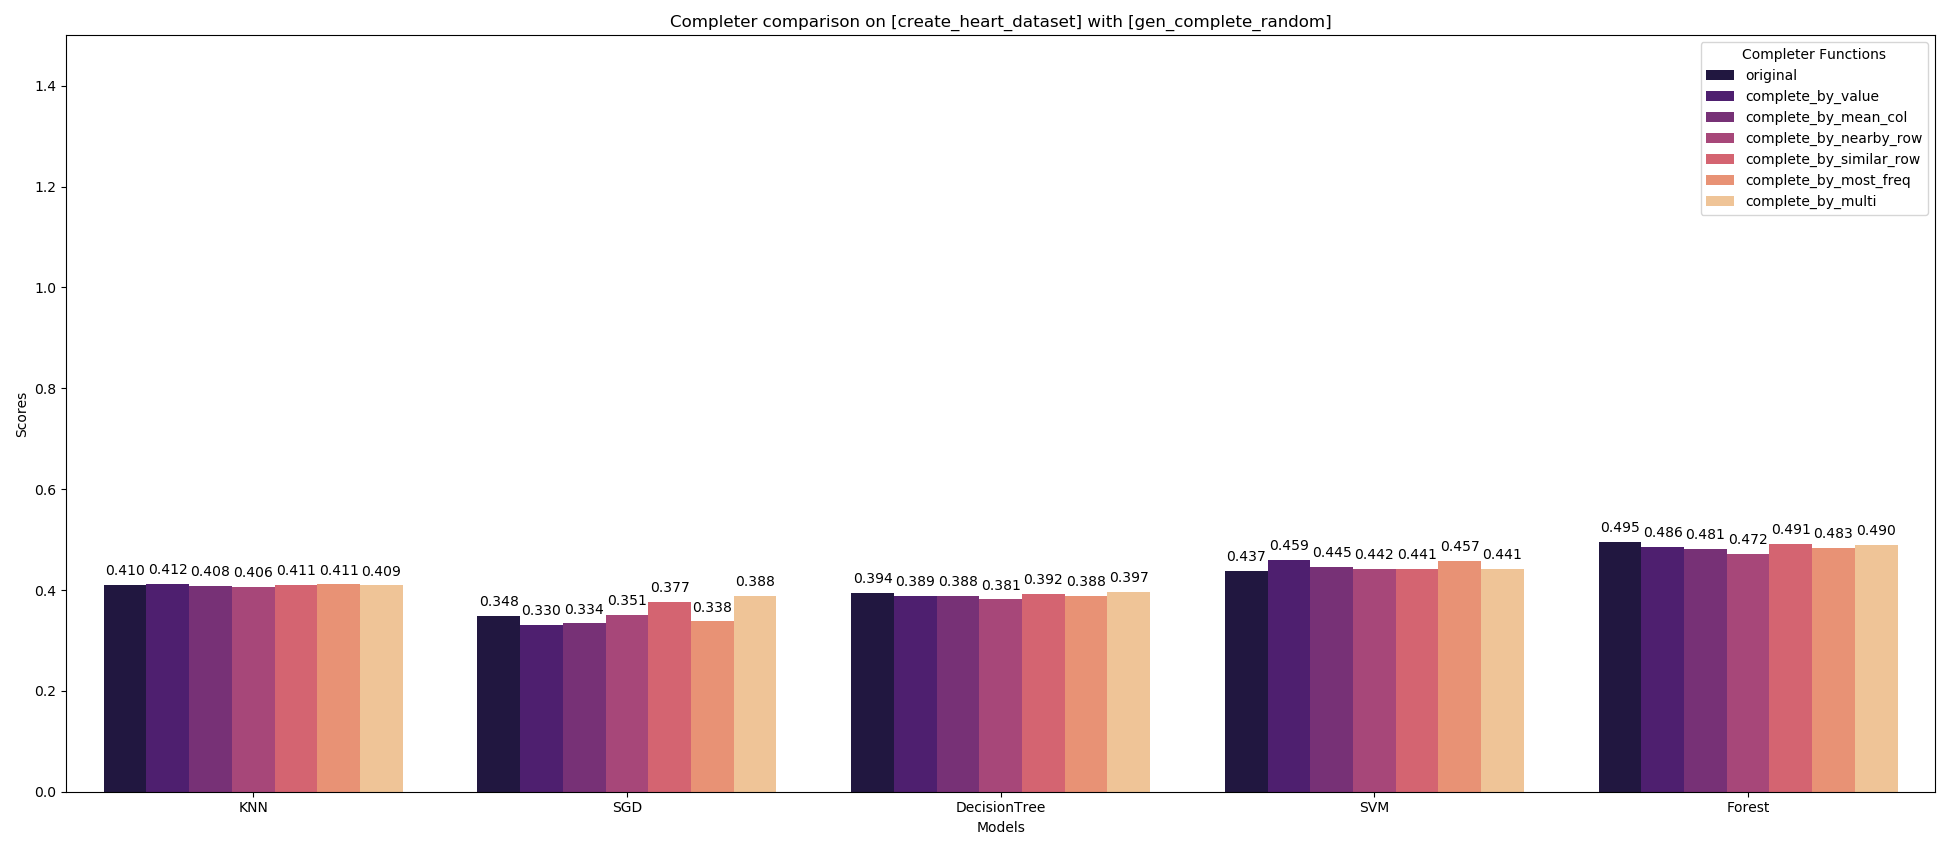
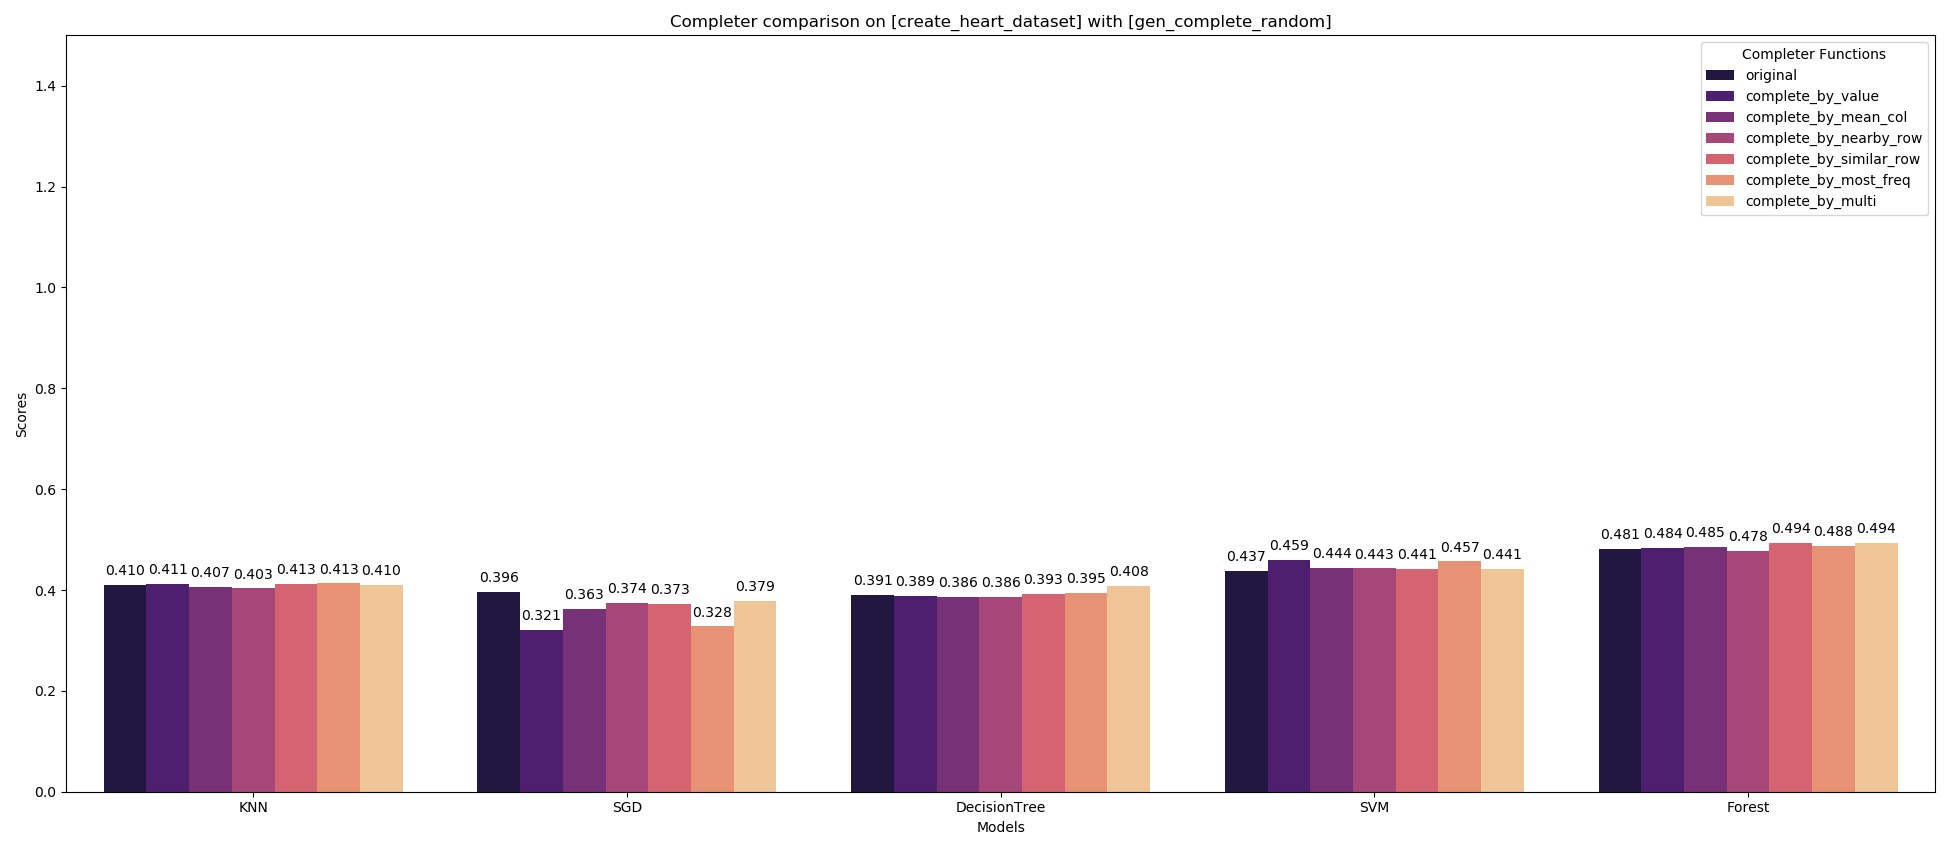
update

diff --git a/utils/test.py b/utils/test.py
@@ -12,17 +12,20 @@ class TestMachine:
     def __init__(self, data_func, random_func,
                  predictor_cv=5, random_gen=1,
                  complete_func=[], model_func=[],
-                 record_time=False):
+                 record_time=False, n_jobs=1,
+                 grid_search=False):
         self.data_func_name = data_func.__name__
         self.random_func_name = random_func.__name__
         self.record_time = record_time
         self.original_data = data_func(print_time=self.record_time)
+        self._log_message("Dataset loaded")
         assert random_gen >= 1 # make sure at least one
         if random_gen > 1:
             print("You're using random generation > 1: {}".format(random_gen))
             self.missing_data = [random_func(self.original_data, print_time=self.record_time) for _ in range(random_gen)]
         else:
             self.missing_data = random_func(self.original_data, print_time=self.record_time)
+        self._log_message("Missing values generated")
         self.completers = [
                            complete_by_value,
                            complete_by_mean_col,
@@ -39,26 +42,33 @@ class TestMachine:
                         Forest
                         ] if model_func == [] else model_func
         self.predictor_cv = predictor_cv
+        self.n_jobs = n_jobs
+        self.grid_search = grid_search
     
     def run(self):
         scores = []
+        self._log_message("Run on original dataset")
         for model in self.models:
-            scores.append(["original", model.__name__, model(self.original_data, self.predictor_cv, self.record_time)])
+            scores.append(["original", model.__name__, model(self.original_data, self.predictor_cv, self.record_time, self.grid_search, self.n_jobs)])
+        self._log_message("Original dataset scores collected")
         for completer in self.completers:
+            self._log_message("Run on missing dataset")
             if type(self.missing_data) is list:
                 completed_data = [completer(x, print_time=self.record_time) for x in self.missing_data]
                 for model in self.models:
-                    model_score = [model(cc, self.predictor_cv, self.record_time) for cc in completed_data] if type(completed_data[0]) is not list \
-                            else [np.mean([model(m, self.predictor_cv, self.record_time) for m in cc]) for cc in completed_data]
+                    model_score = [model(cc, self.predictor_cv, self.record_time, self.grid_search, self.n_jobs) for cc in completed_data] if type(completed_data[0]) is not list \
+                            else [np.mean([model(m, self.predictor_cv, self.record_time, self.grid_search, self.n_jobs) for m in cc]) for cc in completed_data]
                     scores.append([completer.__name__, model.__name__, sum(model_score)/len(model_score)])
             else:
                 completed_data = completer(self.missing_data, print_time=self.record_time)
                 for model in self.models:
-                    model_score = model(completed_data, self.predictor_cv, self.record_time) if type(completed_data) is not list \
-                        else np.mean([model(cc, self.predictor_cv, self.record_time) for cc in completed_data])
+                    model_score = model(completed_data, self.predictor_cv, self.record_time, self.grid_search, self.n_jobs) if type(completed_data) is not list \
+                        else np.mean([model(cc, self.predictor_cv, self.record_time, self.grid_search, self.n_jobs) for cc in completed_data])
                     scores.append([completer.__name__, model.__name__, model_score])
+            self._log_message("Scores collected")
         print("All tests complete")
         self.scores = pd.DataFrame(data=scores, columns=["Completer Functions", "Models", "Scores"], index=None)
+        self._log_message("Score dataframe generated")
         print(self.scores.to_string())
 
     def plot_compare_models(self, size=None, save_file_name=None):
@@ -95,6 +105,9 @@ class TestMachine:
         Y = 5 + (max(len(self.completers), len(self.models)) + 1) / 2
         X = (len(self.completers) * len(self.models) + 1.8*(max(len(self.completers), len(self.models)) - 1)) / 2
         return (X, Y)
+
+    def _log_message(self, message):
+        print("TestMachine: {}".format(message))
 
 class BiasDatasetTest:
     def __init__(self, dataset_func=[], models=[],

diff --git a/main.py b/main.py
@@ -12,7 +12,7 @@ if __name__ == "__main__":
     # machine.run()
     # machine.plot_compare_models(save_file_name="bank1.png")
     # machine.plot_compare_completers(save_file_name="bank2.png")
-    machine = TestMachine(create_heart_dataset, gen_complete_random, random_gen=10, predictor_cv=10, record_time=True)
+    machine = TestMachine(create_heart_dataset, gen_complete_random, random_gen=1, predictor_cv=5, record_time=True, n_jobs=8, grid_search=True)
     machine.run()
     machine.plot_compare_models(save_file_name="heart1.png")
     machine.plot_compare_completers(save_file_name="heart2.png")

diff --git a/utils/completer.py b/utils/completer.py
@@ -95,7 +95,7 @@ def complete_by_multi(data, print_time=False, num_outputs=5):
     if print_time:
         tt = time.process_time()
     data_new = []
-    imputer = IterativeImputer(max_iter=10) # do not set random state here
+    imputer = IterativeImputer(max_iter=100) # do not set random state here
     for _ in range(num_outputs):
         data_copy = data.copy()
         data_copy.X = imputer.fit_transform(data_copy.X)
